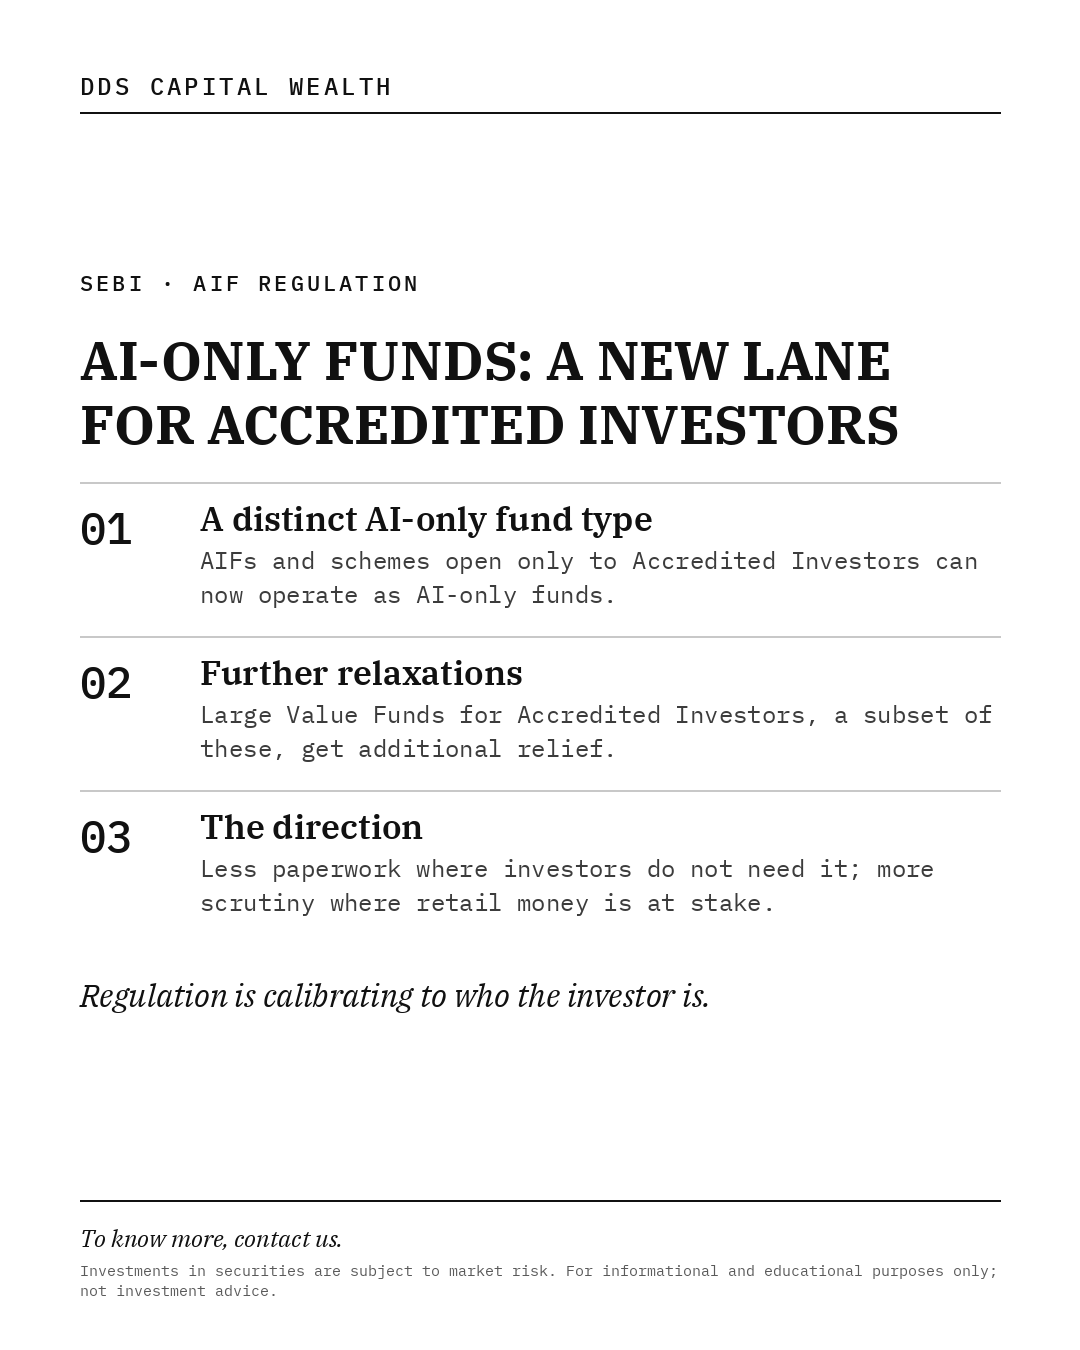
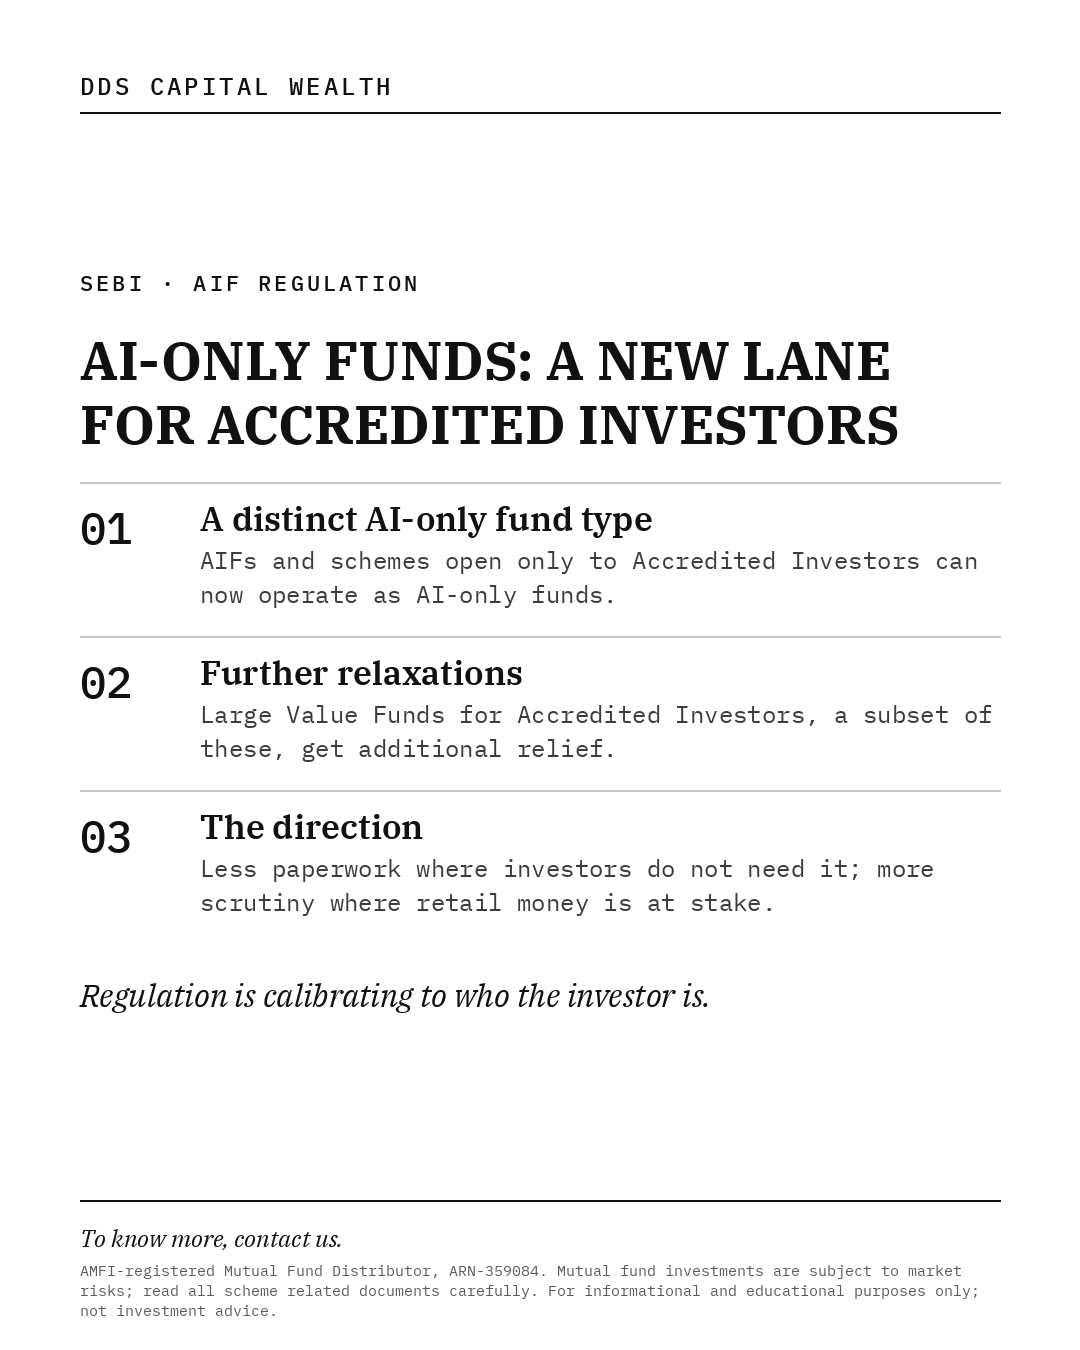
add ARN + MF risk disclaimer

Changed region(s): [[0.0611, 0.9333, 0.9167, 0.9644]]

diff --git a/ig_gen.py b/ig_gen.py
@@ -12,8 +12,9 @@ GREY = (90, 90, 90)
 LIGHT = (200, 200, 200)
 M = 80
 F = "/usr/share/fonts/truetype/ibm-plex/"
-DISCLAIMER = ("Investments in securities are subject to market risk. For informational "
-              "and educational purposes only; not investment advice.")
+DISCLAIMER = ("AMFI-registered Mutual Fund Distributor, ARN-359084. Mutual fund investments "
+              "are subject to market risks; read all scheme related documents carefully. "
+              "For informational and educational purposes only; not investment advice.")
 
 
 def fnt(name, size):
